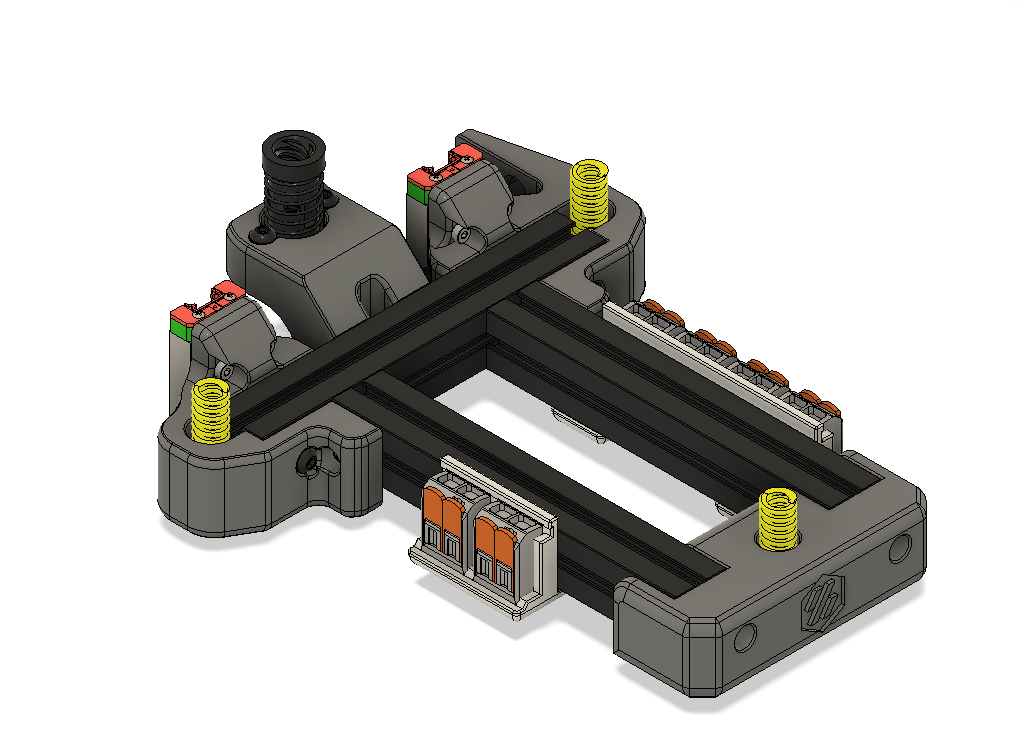
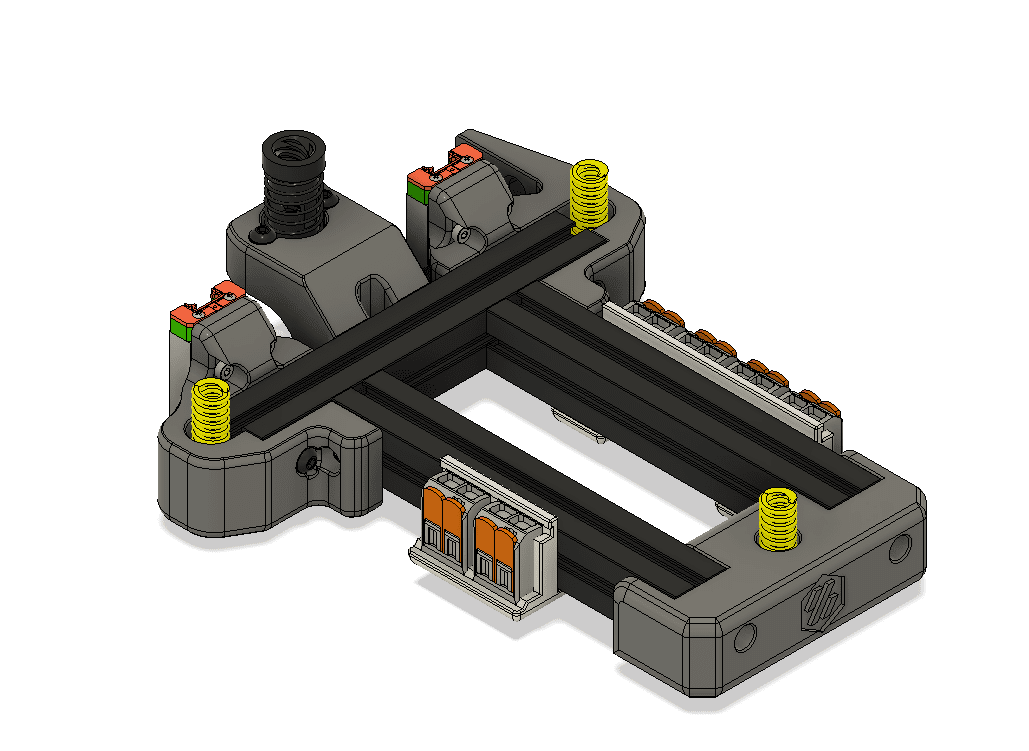
optimized images. updated readme.

diff --git a/printer_mods/deepfriedheroin/readme.md b/printer_mods/deepfriedheroin/readme.md
@@ -1,0 +1,15 @@
+# V0 Bed Wagos
+
+Attach Wago 221-412 to your v0 bed.
+
+I wanted a way to bridge the bed fuse, without using a semi-permanent connector.
+
+Easy to install. Just pop [Front_Bed_Mount_x1.STL](https://github.com/VoronDesign/Voron-0/blob/master/VORON-0/STLs/Front_Bed_Mount_x1.STL) off the front of your bed, slide in some nuts, slip on the wago mount and you're all done.
+
+Prints fine, I'm sure the design could be improved upon. Especially, the 2x. I got lazy there.
+
+![Wago 2x2](./images/v0_bed_wagos_2x.png "Wago 2x2")
+
+![Wago 4x2](./images/v0_bed_wagos_4x.png "Wago 4x2")
+
+![Wago 4x2 Side](./images/v0_bed_wagos_side_4x.png "Wago 4x2 Side")
